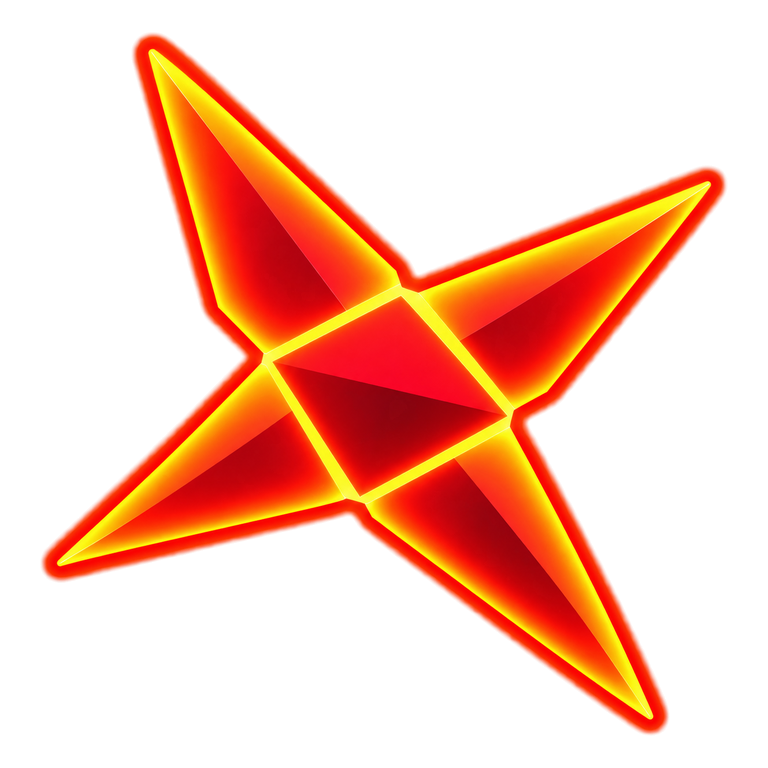
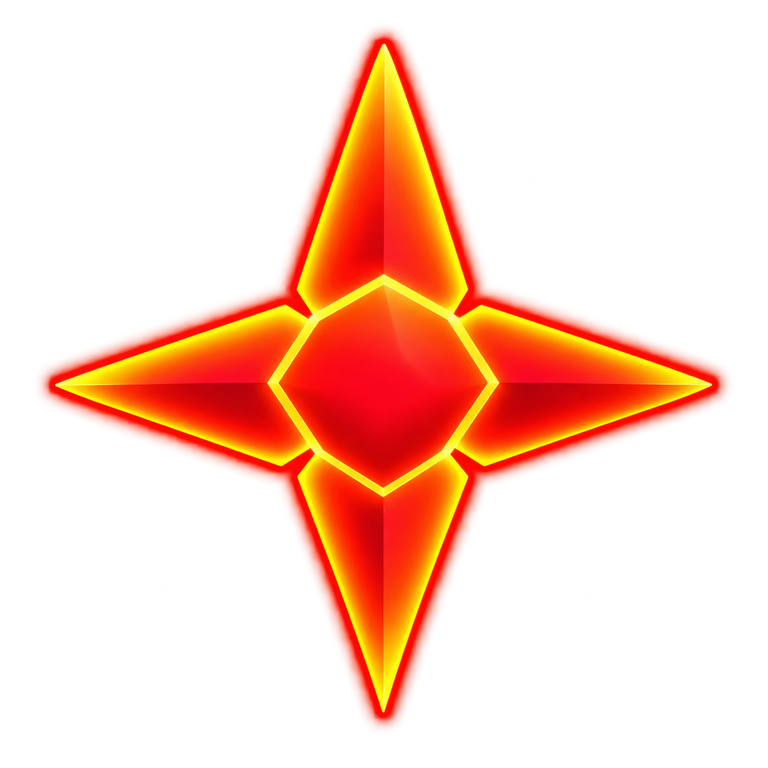
feat(assets): use approved simplified reactor and obstacle

diff --git a/tests/approvedVisualAssets.test.ts b/tests/approvedVisualAssets.test.ts
@@ -5,9 +5,9 @@ import test from 'node:test';
 
 const approvedAssets = {
   'space-background.webp': '9c96bdbba81444760ec13ddc3e3fdc1a9341dbcc',
-  'reactor.webp': 'd358247bfb4dc631fbcd8b3e6a775512497a23e1',
+  'reactor.webp': '01a64790aa159141f148a8ea37c7af78ee2ddd68',
   'player-simple.webp': '07623830073623ac4b944f87f0772f525da115fd',
-  'obstacle.webp': '506bc4c919e59e6aa14f75c00ac177cfaebcef0f',
+  'obstacle.webp': '43cbec3f81692ef24fc3b28f13bfcdbb4b54dc44',
   'shard.webp': '702e56e667622e8b590dab54a45455f7031a9f73',
 } as const;
 
